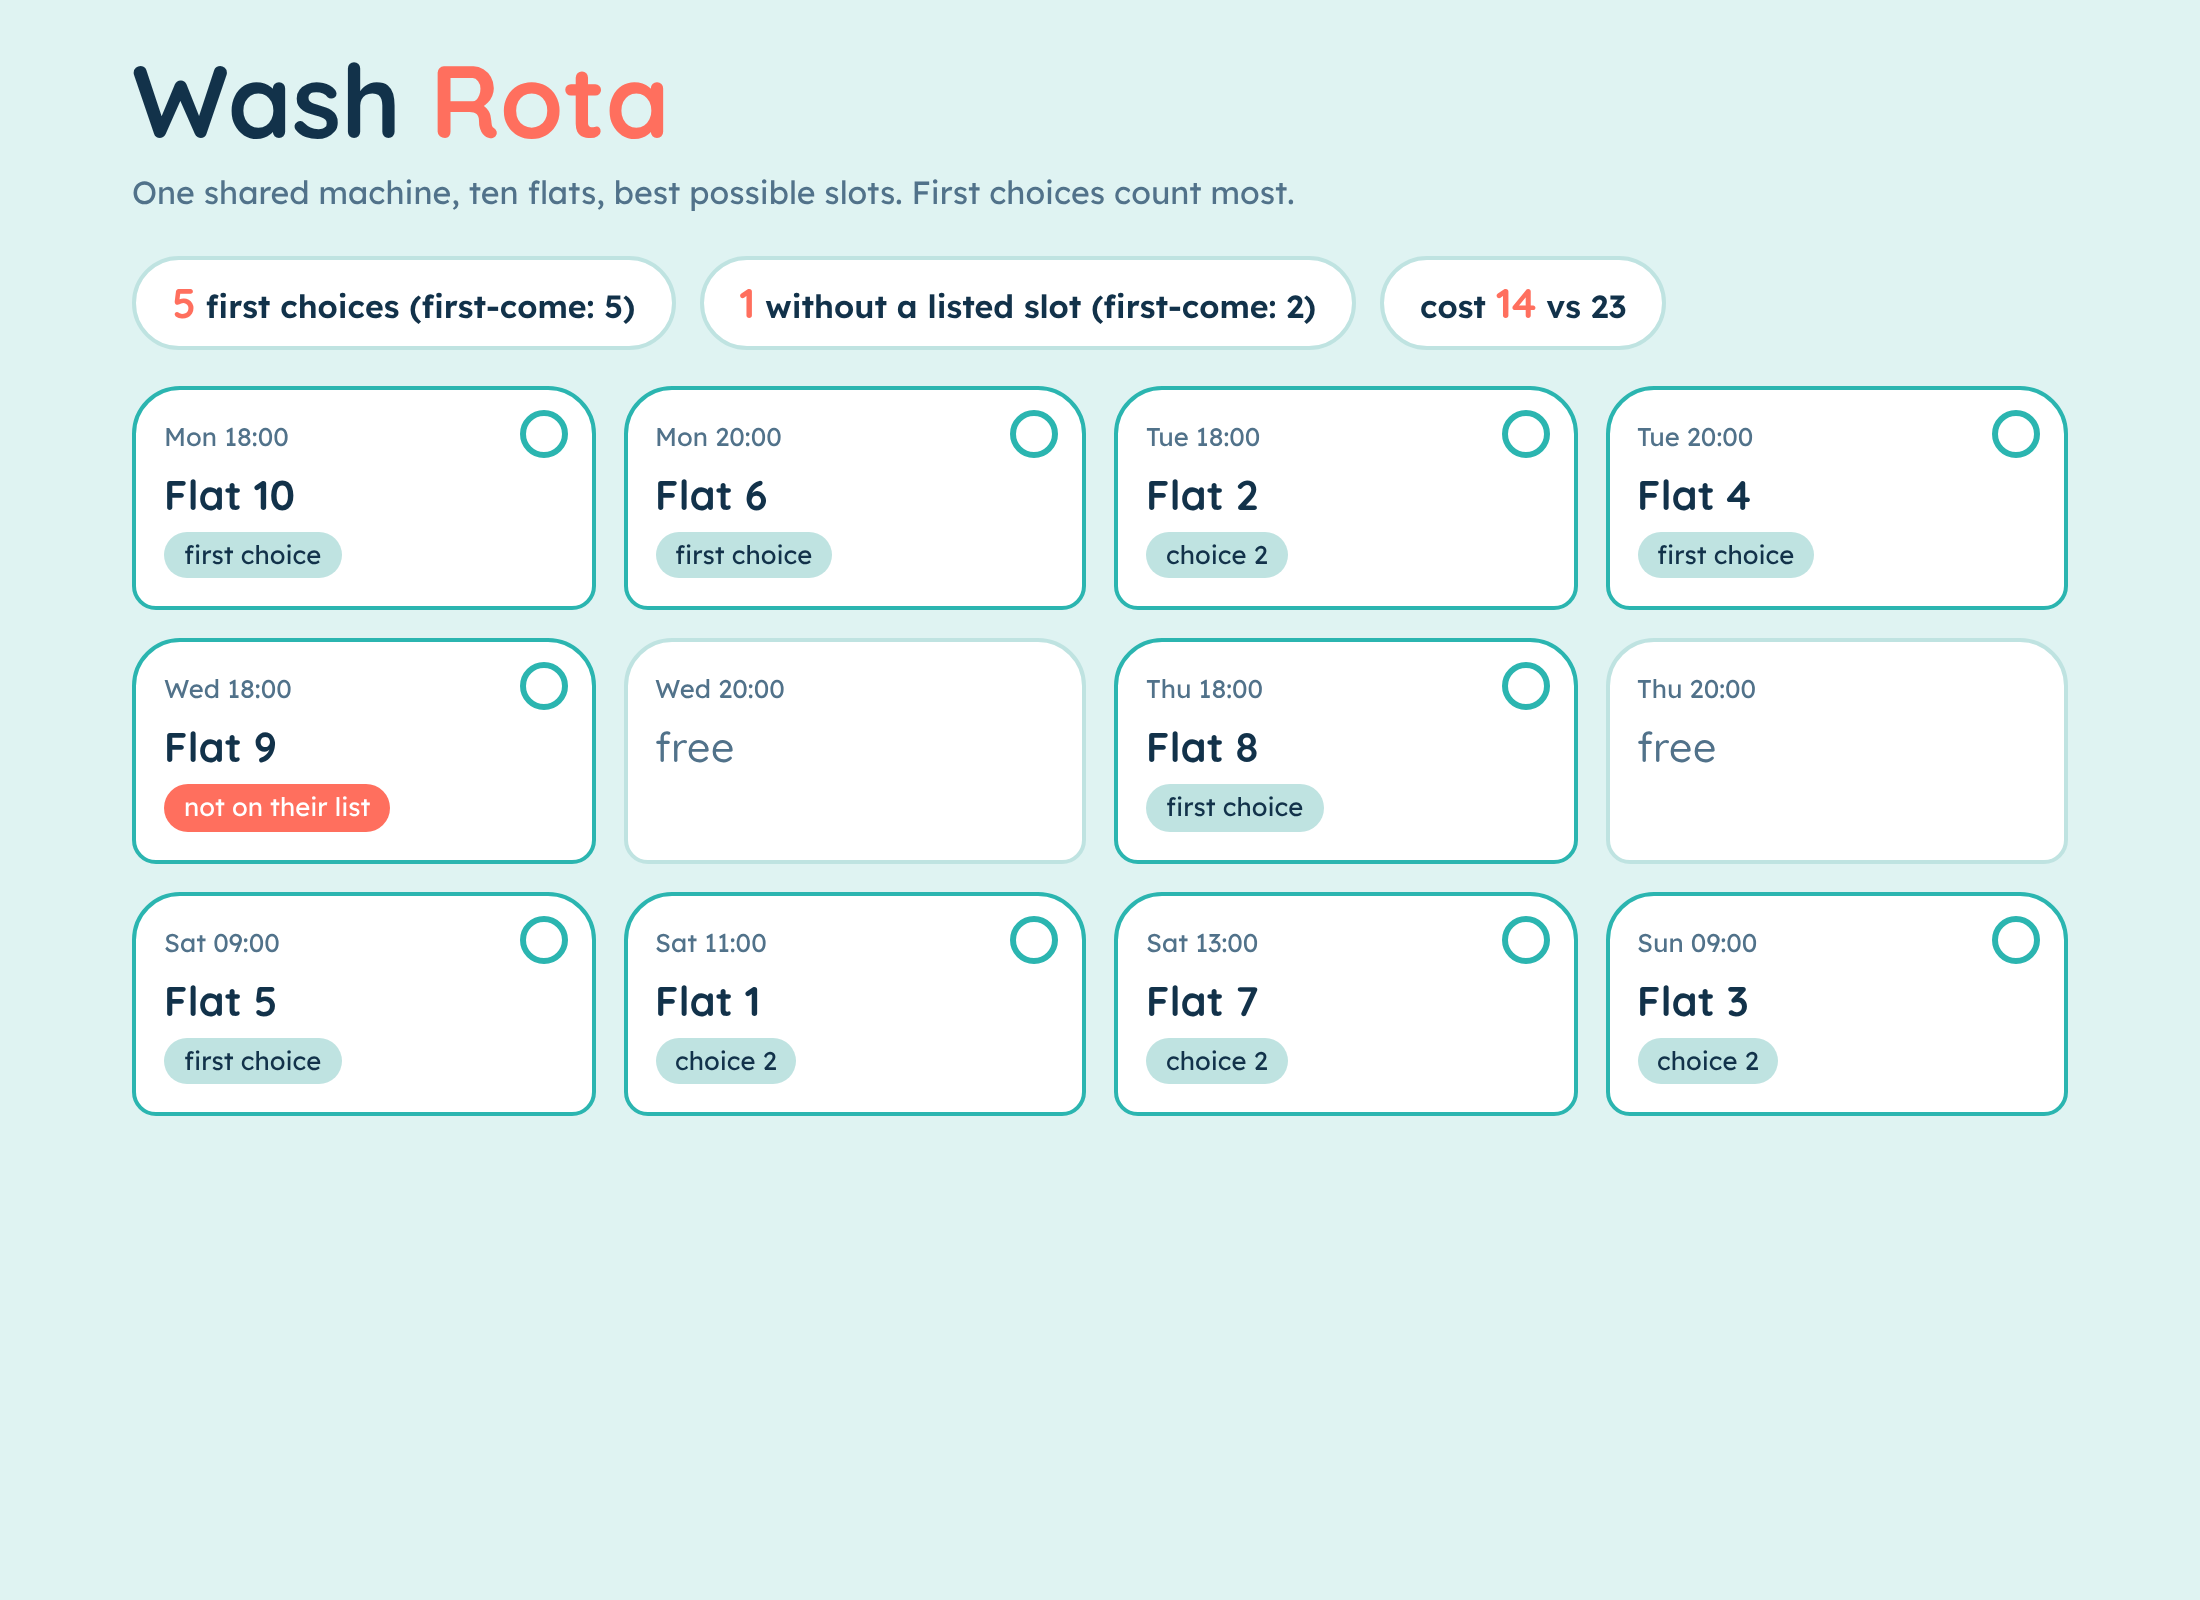
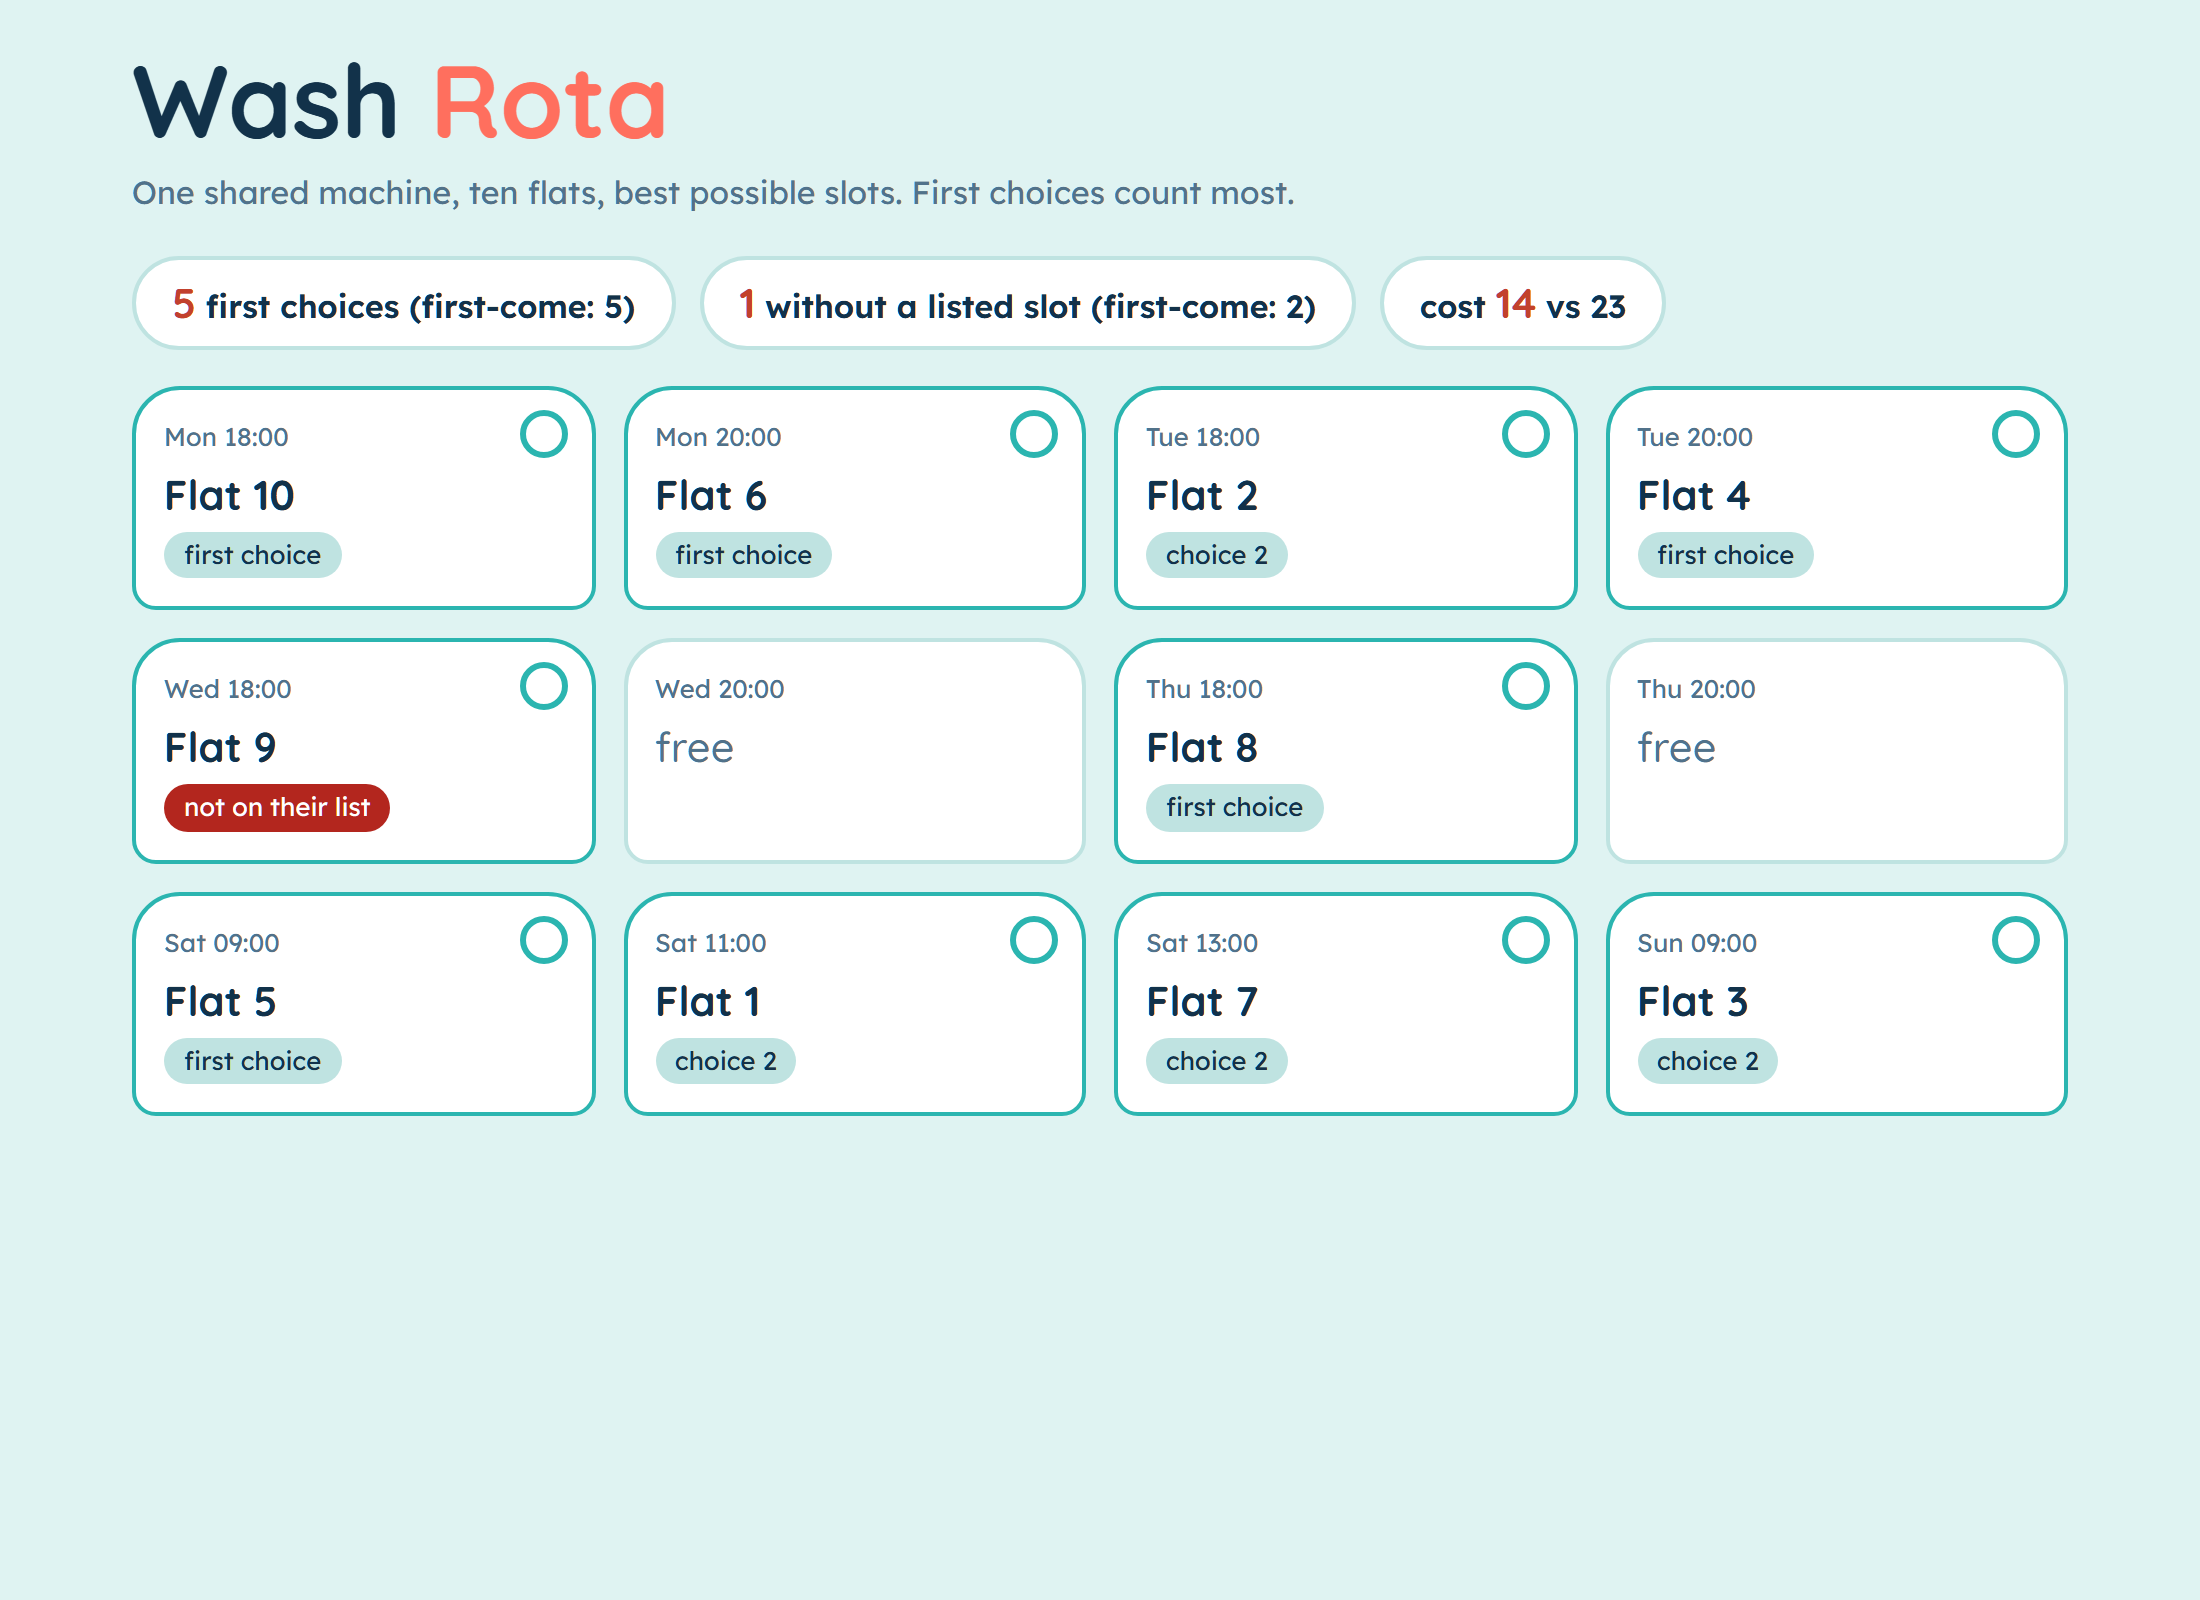
Improve laundry-slot-scheduler

Changed region(s): [[0.0618, 0.4688, 0.1855, 0.5312], [0.68, 0.1875, 0.7109, 0.2188], [0.3709, 0.1875, 0.4018, 0.2188]]

diff --git a/static/index.html b/static/index.html
@@ -2,14 +2,14 @@
 <link href="https://fonts.googleapis.com/css2?family=Quicksand:wght@500;700&family=Lexend:wght@400;600&display=swap" rel="stylesheet">
 <style>
 :root{--bg:#dff3f2;--card:#fff;--ink:#12324a;--mute:#51728a;--coral:#ff6f5e;--aqua:#2bb5b0;--line:#bfe3e1}
-@media(prefers-color-scheme:dark){:root{--bg:#0d2230;--card:#143347;--ink:#e6f4f6;--mute:#8fb3c4;--coral:#ff8a7a;--aqua:#4fd1cb;--line:#24506b}}
+@media(prefers-color-scheme:dark){:root{--bg:#0d2230;--card:#143347;--ink:#e6f4f6;--mute:#8fb3c4;--coral:#ff8a7a;--aqua:#4fd1cb;--line:#24506b}.pill b{color:#ff8a7a}}
 *{box-sizing:border-box}body{margin:0;background:var(--bg);color:var(--ink);font:16px/1.5 Lexend,sans-serif}
 main{max-width:1000px;margin:auto;padding:24px 16px 56px}h1{font:700 clamp(2rem,7vw,3.2rem)/1.05 Quicksand;margin:0}h1 span{color:var(--coral)}.sub{color:var(--mute);margin:6px 0 20px}
-.stats{display:flex;flex-wrap:wrap;gap:12px;margin-bottom:18px}.pill{background:var(--card);border-radius:999px;padding:8px 18px;border:2px solid var(--line);font-weight:600}.pill b{color:var(--coral);font:700 1.3rem Quicksand}
+.stats{display:flex;flex-wrap:wrap;gap:12px;margin-bottom:18px}.pill{background:var(--card);border-radius:999px;padding:8px 18px;border:2px solid var(--line);font-weight:600}.pill b{color:#c2412d;font:700 1.3rem Quicksand}
 .grid{display:grid;grid-template-columns:repeat(auto-fit,minmax(min(200px,100%),1fr));gap:14px}
 .slot{background:var(--card);border-radius:24px 24px 12px 12px;padding:14px;border:2px solid var(--line);min-height:110px;position:relative;animation:in .3s both;transition:transform 150ms}
 .slot:hover{transform:translateY(-2px)}.slot.taken{border-color:var(--aqua)}.slot.taken:before{content:"";position:absolute;top:10px;right:12px;width:18px;height:18px;border-radius:50%;border:3px solid var(--aqua)}
-.time{color:var(--mute);font-size:.8rem}.who{font:700 1.3rem Quicksand;margin-top:6px}.tag{display:inline-block;margin-top:6px;padding:2px 10px;border-radius:999px;font-size:.8rem;background:var(--line)}.tag.bad{background:var(--coral);color:#fff}
+.time{color:var(--mute);font-size:.8rem}.who{font:700 1.3rem Quicksand;margin-top:6px}.tag{display:inline-block;margin-top:6px;padding:2px 10px;border-radius:999px;font-size:.8rem;background:var(--line)}.tag.bad{background:#b3261e;color:#fff}
 .free .who{color:var(--mute);font-weight:500}@keyframes in{from{opacity:0;transform:translateY(6px)}}:focus-visible{outline:3px solid var(--coral);outline-offset:2px}
 @media(prefers-reduced-motion:reduce){*{animation:none!important;transition:none!important}}
 </style></head><body><main>
@@ -17,12 +17,12 @@ main{max-width:1000px;margin:auto;padding:24px 16px 56px}h1{font:700 clamp(2rem,
 <div class="stats" id="st" aria-live="polite"></div><div class="grid" id="g"></div></main>
 <script>
 const $=i=>document.getElementById(i);
-async function go(){const s=await (await fetch("/sample")).json();
+async function go(){try{const s=await (await fetch("/sample")).json();
 const d=await (await fetch("/assign",{method:"POST",headers:{"Content-Type":"application/json"},body:JSON.stringify(s)})).json();
 const by={};Object.entries(d.assignments).forEach(([w,t])=>by[t]=w);
 const b=d.summary,n=d.first_come_summary;
 $("st").innerHTML=`<span class="pill"><b>${b.first_choice}</b> first choices (first-come: ${n.first_choice})</span><span class="pill"><b>${b.no_choice}</b> without a listed slot (first-come: ${n.no_choice})</span><span class="pill">cost <b>${b.total_cost}</b> vs ${n.total_cost}</span>`;
 $("g").innerHTML=s.slots.map((t,i)=>{const w=by[t];if(!w)return `<div class="slot free" style="animation-delay:${i*30}ms"><div class="time">${t}</div><div class="who">free</div></div>`;
-const r=s.residents[w].indexOf(t);return `<div class="slot taken" style="animation-delay:${i*30}ms"><div class="time">${t}</div><div class="who">${w}</div><span class="tag ${r<0?"bad":""}">${r<0?"not on their list":r===0?"first choice":"choice "+(r+1)}</span></div>`}).join("")}
+const r=s.residents[w].indexOf(t);return `<div class="slot taken" style="animation-delay:${i*30}ms"><div class="time">${t}</div><div class="who">${w}</div><span class="tag ${r<0?"bad":""}">${r<0?"not on their list":r===0?"first choice":"choice "+(r+1)}</span></div>`}).join("")}catch(e){$("st").textContent="Could not assign the slots. Refresh to try again.";$("g").innerHTML="";}}
 go();
 </script></body></html>

diff --git a/tests/test_all.py b/tests/test_all.py
@@ -84,3 +84,12 @@ def test_api():
 
 def test_api_errors():
     assert c.post("/assign", json={"slots": ["a"], "residents": {"x": ["a"], "y": ["a"]}}).status_code == 422
+
+
+def test_index_has_error_text():
+    assert "Could not assign the slots" in c.get("/").text
+
+
+def test_tag_and_pill_colours_meet_contrast():
+    page = c.get("/").text
+    assert "background:#b3261e" in page and "color:#c2412d" in page
